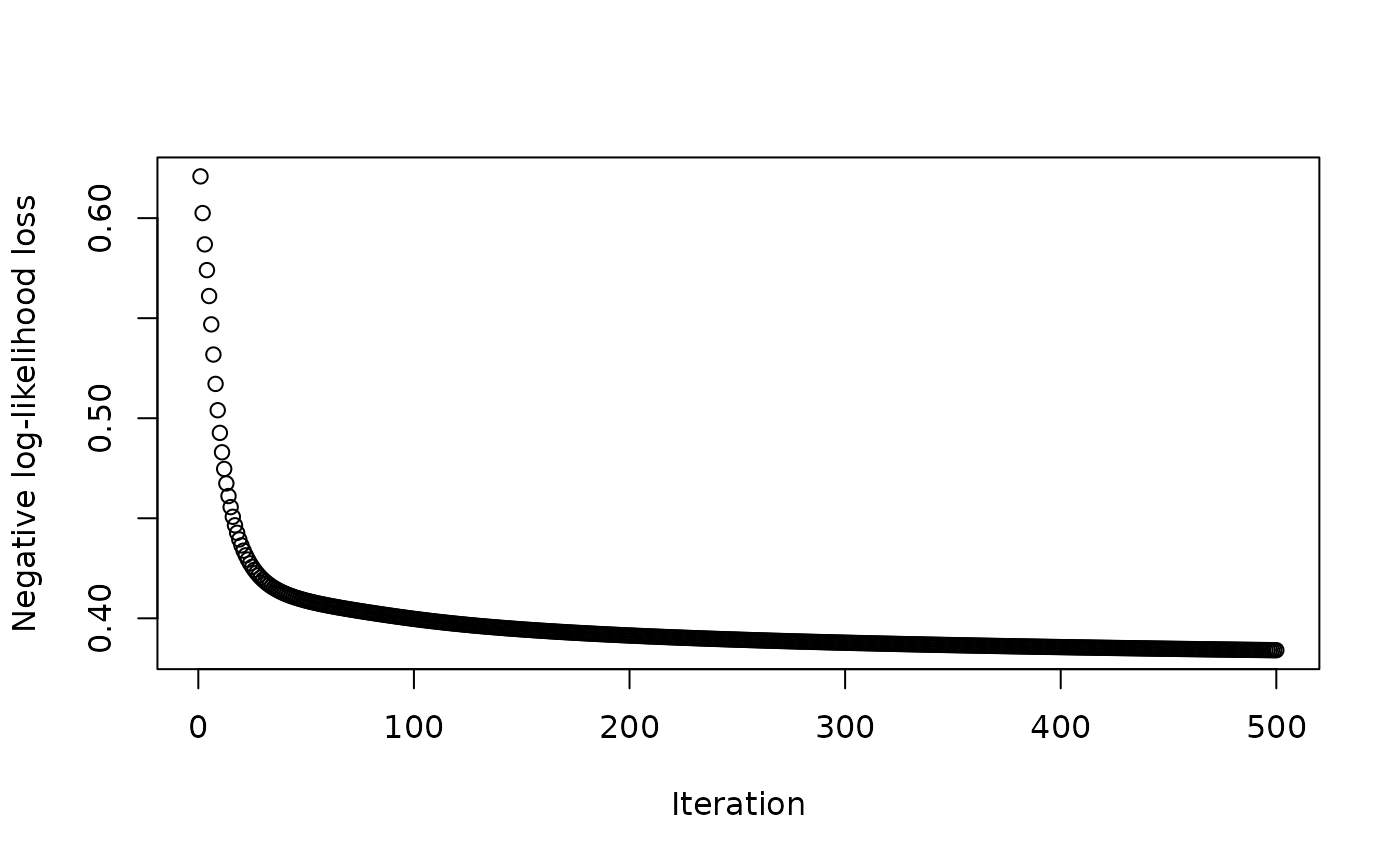
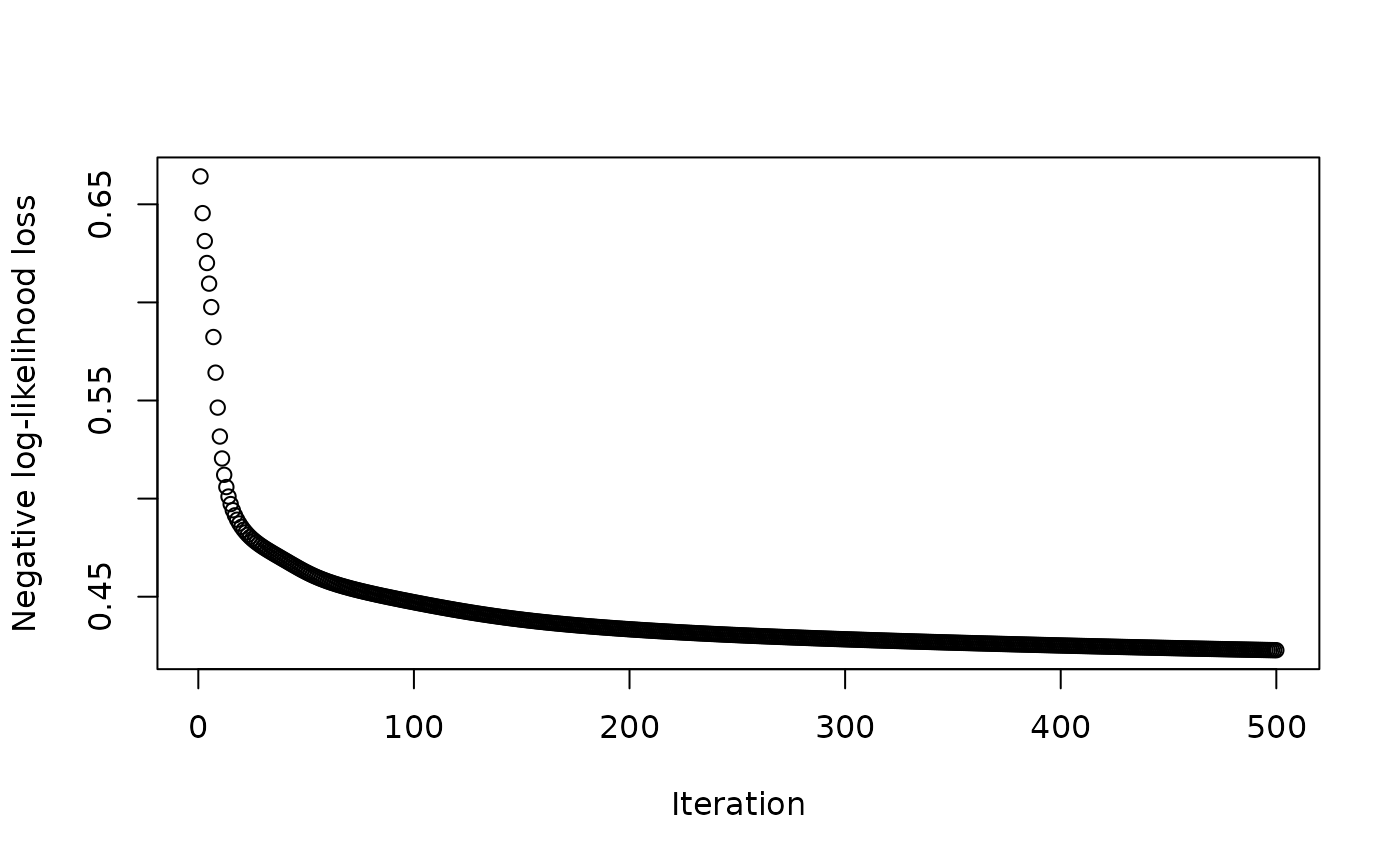
Deploying to gh-pages from @ michalovadek/nmfbin@8689b530e7eac7dc11e88ed6e2c49ad6dbe581a6 🚀

diff --git a/index.html b/index.html
@@ -74,7 +74,7 @@
 <p>The <code>nmfbin</code> R package provides a simple Non-Negative Matrix Factorization (NMF) implementation tailored for binary data matrices. It offers a choice of initialization methods, loss functions and updating algorithms.</p>
 <p>NMF is typically used for reducing high-dimensional matrices into lower (k-) rank ones where <em>k</em> is chosen by the user. Given a non-negative matrix <em>X</em> of size <span class="math inline"><em>m</em> × <em>n</em></span>, NMF looks for two non-negative matrices <em>W</em> (<span class="math inline"><em>m</em> × <em>k</em></span>) and <em>H</em> (<span class="math inline"><em>k</em> × <em>n</em></span>), such that:</p>
 <p><span class="math display"><em>X</em> ≈ <em>W</em> × <em>H</em></span></p>
-<p>In topic modelling, <em>W</em> is normally interpreted as the word-topic matrix and <em>H</em> as the topic-document matrix.</p>
+<p>In topic modelling, if <em>V</em> is a word-document matrix then <em>W</em> can be interpreted as the word-topic matrix and <em>H</em> as the topic-document matrix.</p>
 <p>Unlike most other NMF packages, <code>nmfbin</code> is focused on binary (Boolean) data, while keeping the number of dependencies to a minimum. For more information see the <a href="https://michalovadek.github.io/nmfbin/">website</a>.</p>
 <div class="section level2">
 <h2 id="installation">Installation<a class="anchor" aria-label="anchor" href="#installation"></a>

diff --git a/articles/introduction.html b/articles/introduction.html
@@ -94,7 +94,7 @@ like so:</p>
 reached:</p>
 <div class="sourceCode" id="cb2"><pre class="downlit sourceCode r">
 <code class="sourceCode R"><span><span class="fu"><a href="https://rdrr.io/r/base/print.html" class="external-link">print</a></span><span class="op">(</span><span class="va">results</span><span class="op">$</span><span class="va">convergence</span><span class="op">[</span><span class="fu"><a href="https://rdrr.io/r/base/length.html" class="external-link">length</a></span><span class="op">(</span><span class="va">results</span><span class="op">$</span><span class="va">convergence</span><span class="op">)</span><span class="op">]</span><span class="op">)</span></span>
-<span><span class="co">#&gt; [1] 0.3840567</span></span></code></pre></div>
+<span><span class="co">#&gt; [1] 0.422735</span></span></code></pre></div>
 <p>We can also easily plot the optimization process at every
 iteration:</p>
 <div class="sourceCode" id="cb3"><pre class="downlit sourceCode r">
